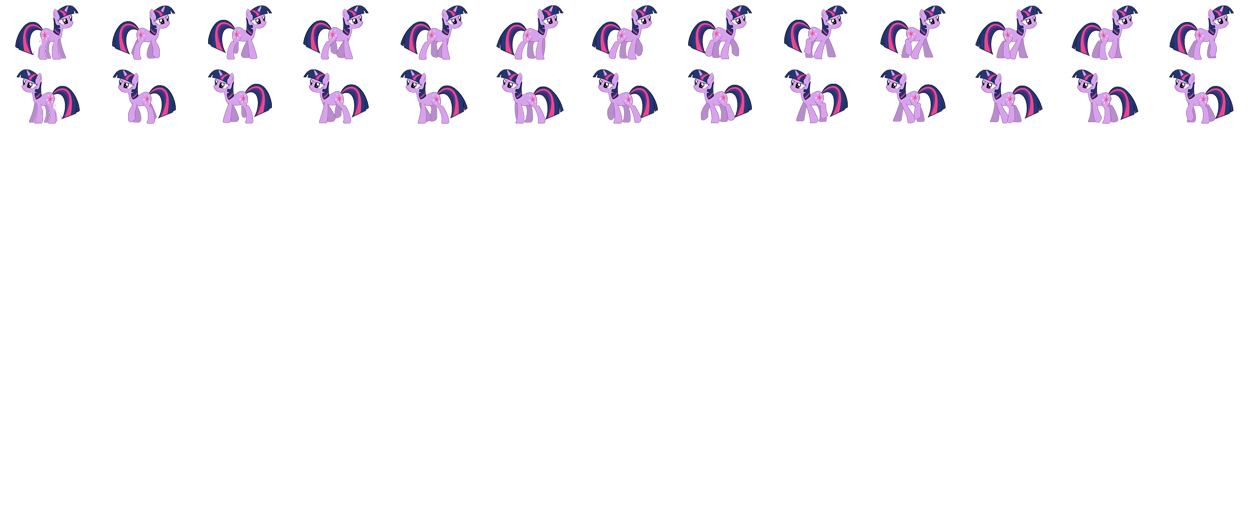
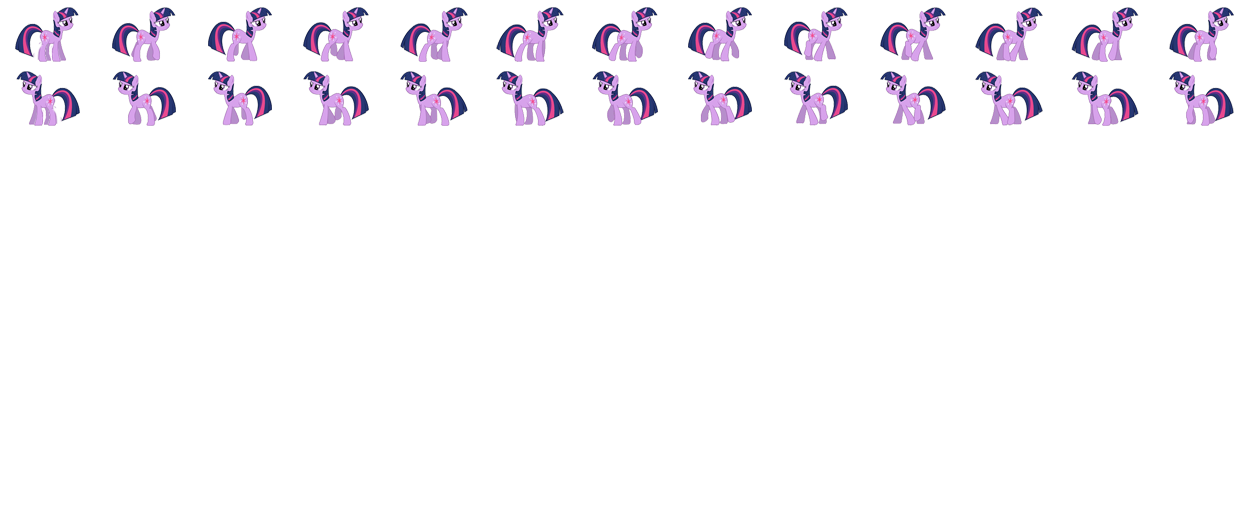
merge

diff --git a/First Game/First Game/Hero.cs b/First Game/First Game/Hero.cs
@@ -18,10 +18,11 @@ namespace First_Game
     {
         // [Private Variables]
         private const int _heroHeight = 64;
-        private const int _heroWidth = 32;
+        private const int _heroWidth = 96;
 
         Animation walkLeft, walkRight;
         Vector2[] Rframes, Lframes;
+        Rectangle RstandingRECT, LstandingRECT;
 
         // [Protected Variables] : none
 
@@ -40,25 +41,29 @@ namespace First_Game
             this.map = map;
 
             // Physics stuff
-            xAcceleration = .3f;
+            xAcceleration = .2f;
             yAcceleration = .5f;
             friction = .7f;
             airFriction = .98f;
             gravity = .4f;
             jumpforce = -20.0f;
-            maxSpeedX = 6.5f;
+            maxSpeedX = 4.5f;
             maxSpeedY = 9.0f;
 
             direction = Direction.RIGHT;
             state = State.STANDING;
 
-            Rframes = new Vector2[12] { new Vector2(0, 0), new Vector2(32, 0), new Vector2(64, 0), new Vector2(96, 0),
-                                        new Vector2(0, 0), new Vector2(32, 0), new Vector2(64, 0), new Vector2(96, 0),
-                                        new Vector2(0, 0), new Vector2(32, 0), new Vector2(64, 0), new Vector2(96, 0)};
 
+            // Animation stuff
+            RstandingRECT = new Rectangle(0, 0, 96, 64);
+            Rframes = new Vector2[12] { new Vector2(96, 0), new Vector2(192, 0), new Vector2(288, 0), new Vector2(384, 0),
+                                        new Vector2(480, 0), new Vector2(576, 0), new Vector2(672, 0), new Vector2(768, 0),
+                                        new Vector2(864, 0), new Vector2(960, 0), new Vector2(1056, 0), new Vector2(1152, 0)};
+            LstandingRECT = new Rectangle(0, 64, 96, 64);
             Lframes = new Vector2[12] { new Vector2(96, 64), new Vector2(192, 64), new Vector2(288, 64), new Vector2(384, 64),
                                         new Vector2(480, 64), new Vector2(576, 64), new Vector2(672, 64), new Vector2(768, 64),
                                         new Vector2(864, 64), new Vector2(960, 64), new Vector2(1056, 64), new Vector2(1152, 64)};
+            setAnimation();
 
             // Collision Points
             top = new Vector2(position.X + rect.Width / 2, position.Y);
@@ -79,8 +84,8 @@ namespace First_Game
 
         private void setAnimation()
         {
-            walkLeft = new Animation(spritesheet, Lframes, 96, 64, 12, 10);
-            walkRight = new Animation(spritesheet, Rframes, 96, 64, 12, 10);
+            walkLeft = new Animation(spritesheet, Lframes, 96, 64, 12, 3);
+            walkRight = new Animation(spritesheet, Rframes, 96, 64, 12, 3);
         }
 
 
@@ -111,6 +116,39 @@ namespace First_Game
         {
             rect.X = (int)position.X - (int)camera.Position.X;
             rect.Y = (int)position.Y - (int)camera.Position.Y;
+
+            switch (state)
+            {
+                case State.STANDING:
+                    if (direction == Direction.LEFT)
+                    {
+                        spriteBatch.Begin(SpriteSortMode.BackToFront, BlendState.NonPremultiplied);
+                        spriteBatch.Draw(spritesheet, rect, LstandingRECT, Color.White);
+                        spriteBatch.End();
+                    }
+                    else
+                    {
+                        spriteBatch.Begin(SpriteSortMode.BackToFront, BlendState.NonPremultiplied);
+                        spriteBatch.Draw(spritesheet, rect, RstandingRECT, Color.White);
+                        spriteBatch.End();
+                    }
+                    break;
+                case State.RUNNING:
+                    if (direction == Direction.LEFT)
+                        walkLeft.Draw(spriteBatch, rect);
+                    else
+                        walkRight.Draw(spriteBatch, rect);
+                    break;
+                case State.INAIR:
+                    if (direction == Direction.LEFT)
+                        walkLeft.DrawFirstFrame(spriteBatch, rect);
+                    else
+                        walkRight.DrawFirstFrame(spriteBatch, rect);
+                    break;
+            }
+
+
+
 
 
             spriteBatch.Begin(SpriteSortMode.BackToFront, BlendState.NonPremultiplied);

diff --git a/First Game/First Game/Game1.cs b/First Game/First Game/Game1.cs
@@ -112,7 +112,7 @@ namespace First_Game
             enemy1Damagedimg = Content.Load<Texture2D>("Enemy1Damaged");
 
             // TWILIGHT!
-            spritesheet_Twilight = Content.Load<Texture2D>("Enemy1Damaged");
+            spritesheet_Twilight = Content.Load<Texture2D>("twiWalk");
 
             screenWidth = GraphicsDevice.Viewport.Width;
             screenHeight = GraphicsDevice.Viewport.Height;
@@ -129,14 +129,13 @@ namespace First_Game
 
             Vector2 startPos = new Vector2(100, 100);
 
-            hero = new Hero(this, spriteBatch, camera, gameMap,startPos, 8, heroimg);
             camera = new Camera(this);
+            hero = new Hero(this, spriteBatch, camera, gameMap,startPos, 8, spritesheet_Twilight);
             camera.lockEntity(hero);
             keyControls = new kbdController(this, hero);
             tiles = new Tiles(this);
             gameMap = new Map(this, hero, camera, tiles);
 
-            hero.camera = camera;
             hero.map = gameMap;
 
             // loading the level

diff --git a/First Game/First Game/Entity.cs b/First Game/First Game/Entity.cs
@@ -93,7 +93,6 @@ namespace First_Game
         {
             DeltaX -= xAcceleration;
             if (DeltaX < 0)
-
                 direction = Direction.LEFT;
         }
         public void MoveRight()
@@ -122,8 +121,8 @@ namespace First_Game
         }
         public void Land()
         {
-            state = State.RUNNING;
             DeltaY = 0;
+            state = (Math.Abs(DeltaX) == 0)? State.STANDING : State.RUNNING;
         }
 
 
